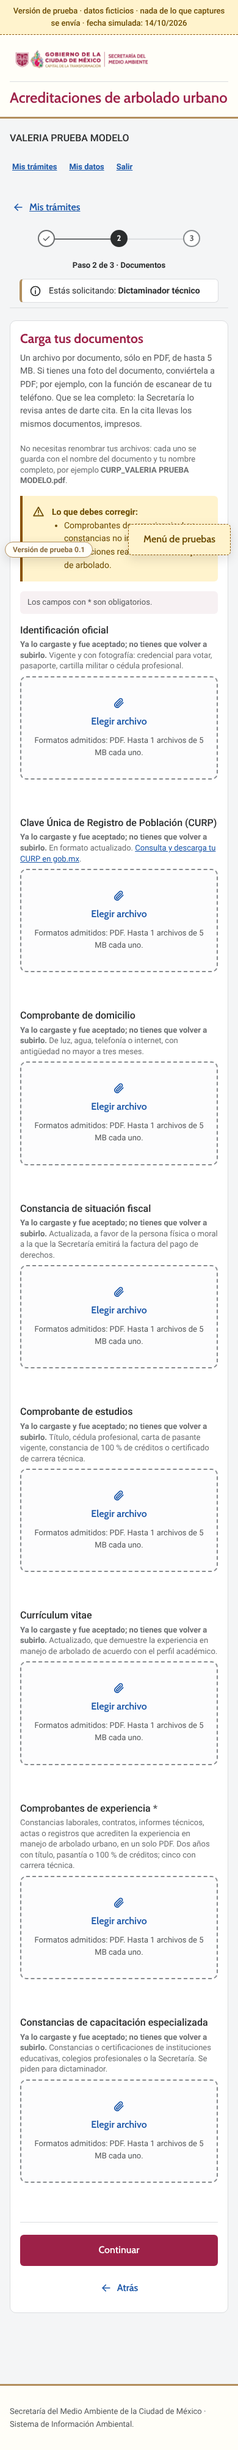
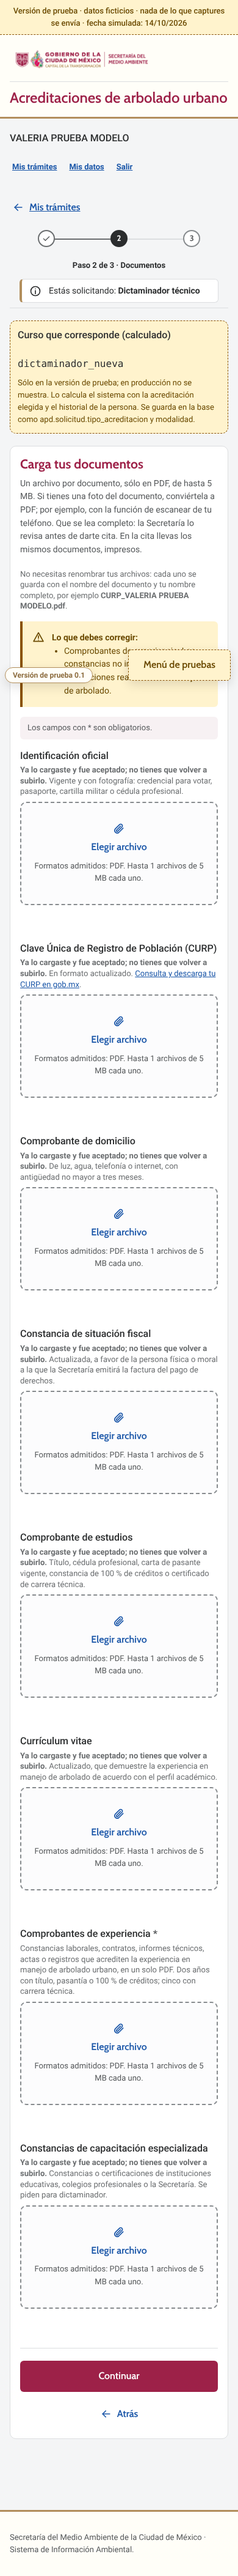
Datos internos en amarillo sólo en la versión de prueba, y número de versión por publicación
- data-interno: sexo y campos auxiliares ocultos para la persona; en prueba, recuadro amarillo con nota y valor.
- publicar-sitio.sh sube la versión de prueba (0.N → 0.N+1) y la anota en docs/VERSIONES.md.

Claude-Session: https://claude.ai/code/session_0153rGEWskWust9PeXiDGJyG

diff --git a/sitio/app/pruebas.js b/sitio/app/pruebas.js
@@ -21,6 +21,33 @@
   const esPrueba = Boolean(document.querySelector('.entorno-pruebas'));
   if (!esPrueba) return;
 
+  /* 0. Datos internos ([data-interno]): lo que calcula el sistema y va a la base no lo ve la persona; aquí se
+        muestra en amarillo con su nota y, si es un campo oculto, con su valor al momento. */
+  document.documentElement.classList.add('modo-pruebas');
+  function refrescaInternos() {
+    for (const o of document.querySelectorAll('[data-interno-valor]')) {
+      const i = o.closest('[data-interno]').querySelector('input[type="hidden"]');
+      const v = i && i.value ? i.value : '(vacío)';
+      if (o.textContent !== v) o.textContent = v; // sin cambio no se toca: el observador no se vuelve a disparar
+    }
+  }
+  function marcaInternos() {
+    for (const caja of document.querySelectorAll('[data-interno]')) {
+      if (caja.querySelector(':scope > .nota-interna')) continue;
+      if (caja.querySelector('input[type="hidden"]')) {
+        caja.prepend(APD.el('p', { class: 'etiqueta', texto: caja.dataset.internoEtiqueta || caja.dataset.campo || 'Dato interno' }));
+        caja.append(APD.el('output', { class: 'interno-valor', 'data-interno-valor': '' }));
+      }
+      caja.append(APD.el('p', { class: 'nota-interna', texto: `Sólo en la versión de prueba; en producción no se muestra. ${caja.dataset.interno}` }));
+    }
+    refrescaInternos();
+  }
+  let pendiente = 0;
+  new MutationObserver(() => { clearTimeout(pendiente); pendiente = setTimeout(marcaInternos, 50); })
+    .observe(document.documentElement, { childList: true, subtree: true });
+  for (const ev of ['input', 'change']) document.addEventListener(ev, () => setTimeout(refrescaInternos));
+  document.addEventListener('DOMContentLoaded', marcaInternos);
+
   const lee = () => { try { return window.sessionStorage.getItem(CLAVE) === 'si'; } catch (e) { return false; } };
   const escribe = (v) => { try { window.sessionStorage.setItem(CLAVE, v ? 'si' : ''); } catch (e) { /* sin almacenamiento: no se recuerda */ } };
   const pagina = (location.pathname.split('/').pop() || 'index.html');

diff --git a/sitio/cuenta.html b/sitio/cuenta.html
@@ -59,7 +59,8 @@
     </div>
     <!-- No es una pregunta: lo llena app/cuenta.js («si» cuando el segundo apellido está vacío) para que la
          CURP se compruebe también sin segundo apellido. El servidor lo calcula por su cuenta, no lo recibe. -->
-    <div class="solo-lector" aria-hidden="true" data-campo="sin_segundo_apellido" data-auxiliar data-uso="Comprobar la CURP cuando la persona no tiene segundo apellido; lo calcula la página.">
+    <div class="solo-lector" aria-hidden="true" data-campo="sin_segundo_apellido" data-auxiliar data-uso="Comprobar la CURP cuando la persona no tiene segundo apellido; lo calcula la página."
+         data-interno="Lo calcula la página: «si» cuando el segundo apellido queda vacío. Sirve para comprobar la CURP; no se guarda en la base." data-interno-etiqueta="Sin segundo apellido (calculado)">
       <input type="hidden" id="sin_segundo_apellido" name="sin_segundo_apellido" value="si">
     </div>
 
@@ -88,8 +89,8 @@
     </div>
 
     <!-- Sexo (decisión 2026-10-15): se toma de la CURP (posición 11), como pide el estándar; no se pregunta aparte.
-         La base lo calcula igual (apd.solicitante.sexo). -->
-    <div class="campo" data-campo="sexo" data-sensible data-finalidad="Estadística de la población acreditada por sexo." data-uso="Derivado de la CURP; no se pide por separado.">
+         La base lo calcula igual (apd.solicitante.sexo). Dato interno: la persona no lo ve (data-interno). -->
+    <div class="campo" data-campo="sexo" data-interno="Lo calcula el sistema con la CURP (posición 11). Se guarda en la base: apd.solicitante.sexo." data-sensible data-finalidad="Estadística de la población acreditada por sexo." data-uso="Derivado de la CURP; no se pide por separado.">
       <label class="etiqueta" for="sexo">Sexo</label>
       <p class="ayuda">Se toma de tu CURP.</p>
       <!-- autocomplete off: es de sólo lectura y se llena desde la CURP. -->

diff --git a/sitio/app/apd.css b/sitio/app/apd.css
@@ -87,3 +87,14 @@
 .opcion-fila:has(.opcion-fila-input:disabled) { opacity: var(--op-inactivo); cursor: not-allowed; }
 .opcion-fila:has(.opcion-fila-input:disabled):hover { border-color: var(--borde); }
 
+/* Datos internos (decisión 2026-10-15): los que calcula el sistema y van a la base, como el sexo tomado de la CURP,
+   no los ve la persona. En la versión de prueba (app/pruebas.js pone .modo-pruebas) se muestran en amarillo con su
+   nota, para revisarlos; al pasar al SIA se quita pruebas.js y quedan ocultos. */
+[data-interno] { display: none; }
+.modo-pruebas [data-interno] {
+  display: block; position: static; width: auto; height: auto; margin: 0 0 var(--e-5); overflow: visible; clip: auto;
+  white-space: normal; padding: var(--e-3); background: var(--pend-bg); border: var(--b-1) dashed var(--pend); border-radius: var(--r-caja);
+}
+.nota-interna { margin: var(--e-2) 0 0; font-size: var(--t-sm); color: var(--pend-txt); }
+.interno-valor { display: block; font-family: var(--fuente-mono); color: var(--texto); }
+

diff --git a/sitio/solicitud.html b/sitio/solicitud.html
@@ -52,7 +52,8 @@
     <!-- Curso que corresponde (tipo + nueva o renovación). No es una pregunta: lo calcula app/solicitud.js a
          partir del tipo elegido y del historial, y de él dependen los documentos. El servidor lo calcula por su
          cuenta. Va fuera de los pasos para no aparecer en la revisión. -->
-    <div class="solo-lector" aria-hidden="true" data-campo="tramite" data-auxiliar data-uso="Mostrar los documentos del curso que corresponde; lo calcula la página.">
+    <div class="solo-lector" aria-hidden="true" data-campo="tramite" data-auxiliar data-uso="Mostrar los documentos del curso que corresponde; lo calcula la página."
+         data-interno="Lo calcula el sistema con la acreditación elegida y el historial de la persona. Se guarda en la base como apd.solicitud.tipo_acreditacion y modalidad." data-interno-etiqueta="Curso que corresponde (calculado)">
       <input type="hidden" id="tramite" name="tramite" value="">
     </div>
 

diff --git a/sitio/app/datos.js b/sitio/app/datos.js
@@ -68,9 +68,10 @@
       ['Nombre', APD.nombreCompleto(p)],
       ['CURP', curp],
       ['Fecha de nacimiento', curp ? APD.fecha(nacimientoDe(curp)) : ''],
-      ['Sexo', SEXO[p.sexo || curp[10]] || ''],
       ['Expediente', p.numero_expediente || '']
-    ]));
+    ]), // El sexo es dato interno (se toma de la CURP): la persona no lo ve; en la versión de prueba sale en amarillo
+    el('div', { 'data-interno': 'Lo calcula el sistema con la CURP (posición 11). Se guarda en la base: apd.solicitante.sexo.' },
+      [APD.datosLista([['Sexo', SEXO[p.sexo || curp[10]] || '']])]));
     pon('correo', p.correo); pon('correo2', p.correo); pon('telefono', p.telefono);
     ponAdscripcion(datos, p);
     pintaFoto(datos, p);

diff --git a/docs/DECISIONES.md b/docs/DECISIONES.md
@@ -15,6 +15,8 @@ el borrador debe actualizarse** (sección «Lo que hay que corregir en los linea
 | 2026-10-14 | El trámite es siempre individual. Pertenecer a una organización es un atributo de la solicitud que sirve para agrupar la demanda; las organizaciones no inscriben a su personal, no pagan en conjunto y no tienen enlace con cuenta | Liber Saltijeral |
 | 2026-10-14 | Volumen esperado: 1,000 solicitudes al año | Liber Saltijeral |
 | 2026-10-14 | Documentos de hasta 5 MB cada uno (antes 2 MB) (mapa, R12) | Liber Saltijeral |
+| 2026-10-15 | Datos internos: lo que calcula el sistema y va a la base (el sexo tomado de la CURP, el curso que corresponde) no lo ve la persona. En la versión de prueba se muestra en amarillo, con una nota de que en producción no se ve; al pasar al SIA queda oculto | Liber Saltijeral |
+| 2026-10-15 | Cada publicación de la versión de prueba sube su número (0.2, 0.3…), visible abajo de cada pantalla, para saber si se ve la última. El historial con fecha y cambio está en docs/VERSIONES.md | Liber Saltijeral |
 | 2026-10-15 | Las preguntas de opción se muestran como lista, una opción por renglón y con el botón de opción visible (variante `opciones-lista` del estándar), en lugar de tarjetas en rejilla, que confundían. Aplica a todo el sistema, también al Sí/No. Se eligió entre cuatro estilos | Liber Saltijeral |
 | 2026-10-15 | Los documentos que carga la persona se aceptan sólo en PDF (antes también JPG y PNG). Las fotografías siguen siendo imagen. A quien tenga una foto del documento se le sugiere convertirla con el escáner de su teléfono | Liber Saltijeral |
 | 2026-10-15 | El requisito de la CURP y el campo de CURP de la cuenta llevan el enlace oficial para obtenerla: https://www.gob.mx/curp/ | Liber Saltijeral |

diff --git a/docs/ETAPA-1-PANTALLAS.md b/docs/ETAPA-1-PANTALLAS.md
@@ -1,6 +1,6 @@
 # Etapa 1 · Pantallas de la persona solicitante
 
-Versión de prueba 0.1, con datos ficticios. Construida con el **Estándar de formularios del SIA v1.0.0**
+Versión de prueba 0.N (sube con cada publicación; ver `docs/VERSIONES.md`), con datos ficticios. Construida con el **Estándar de formularios del SIA v1.0.0**
 (`SedemaOficina/estandar-formularios`), sin modificarlo. Ninguna pantalla guarda nada fuera de la pestaña:
 el envío, el acceso y la consulta están **simulados** sobre `datos/ficticios.json` hasta la etapa 3.
 
@@ -24,7 +24,10 @@ se lee «Cita asignada»; `lista_para_curso`, «En espera de grupo».
 `app/pruebas.js`, en todas las pantallas: botón fijo «Menú de pruebas» que abre un panel para entrar como
 cualquier persona ficticia (una por situación) o como persona nueva, desactivar o activar las preguntas
 obligatorias (los formatos y las comprobaciones de la CURP siguen), llenar el formulario con datos ficticios (en la cuenta, con una fotografía ficticia dibujada en el navegador),
-saltar a cualquier paso de la solicitud, simular fallo, límite o envío lento, e ir a cualquier pantalla. No
+saltar a cualquier paso de la solicitud, simular fallo, límite o envío lento, e ir a cualquier pantalla.
+También pone la página en modo de prueba: los **datos internos** (`data-interno`: lo que calcula el sistema y la
+persona no ve, como el sexo tomado de la CURP o los campos auxiliares `sin_segundo_apellido` y `tramite`) se
+muestran en un recuadro amarillo con su nota y su valor; sin este archivo, en producción, quedan ocultos. No
 aparece si `VERSION` no es 0.N; al pasar al SIA se quita de las páginas con el acceso simulado.
 
 ## 2. Archivos del estándar que se copian

diff --git a/docs/BITACORA-PROYECTO.md b/docs/BITACORA-PROYECTO.md
@@ -248,3 +248,14 @@ accesibilidad sin hallazgos.
 - `app/apd.css` agrega el estado deshabilitado que esa variante no trae (P56).
 
 **Verificado**: 137 comprobaciones del sitio, accesibilidad sin hallazgos; auditor de CSS y de campos correctos.
+
+## 2026-10-15 · Bloque 18 · Datos internos y número de versión por publicación
+
+- `data-interno`: el sexo (cuenta y «Mis datos») y los auxiliares `sin_segundo_apellido` y `tramite` no se muestran
+  a la persona. En la versión de prueba (`app/pruebas.js` pone `.modo-pruebas`) salen en un recuadro amarillo
+  con su nota («en producción no se muestra…») y, los auxiliares, con su valor al momento.
+- `herramientas/nueva-version.mjs`, llamado por `publicar-sitio.sh`: sube 0.N → 0.N+1, actualiza el `?v=` de las
+  páginas y anota en `docs/VERSIONES.md` el número, la fecha y qué cambió. La 0.2 es la primera con este esquema.
+
+**Verificado**: 141 comprobaciones del sitio (también que en producción el sexo queda oculto), accesibilidad sin
+hallazgos; auditor de CSS y de campos correctos.

diff --git a/LEEME.md b/LEEME.md
@@ -9,7 +9,7 @@ Sustituye por completo el uso de Kobo ToolBox. Se construye para instalarse en e
 Ambiental (SIA) de la Secretaría del Medio Ambiente, siguiendo `docs/GUIA-PROYECTOS-SIA.md` desde el
 principio.
 
-**Versión de prueba 0.1** (archivo `VERSION`). Todos los datos de este repositorio son **ficticios**.
+**Versión de prueba 0.N** (archivo `VERSION`): sube con cada publicación y se ve abajo de cada pantalla; el historial está en `docs/VERSIONES.md`. Todos los datos de este repositorio son **ficticios**.
 
 ## Estado
 
